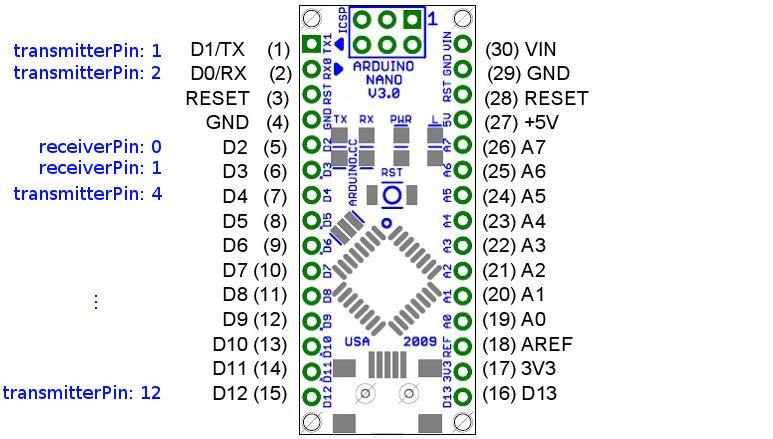
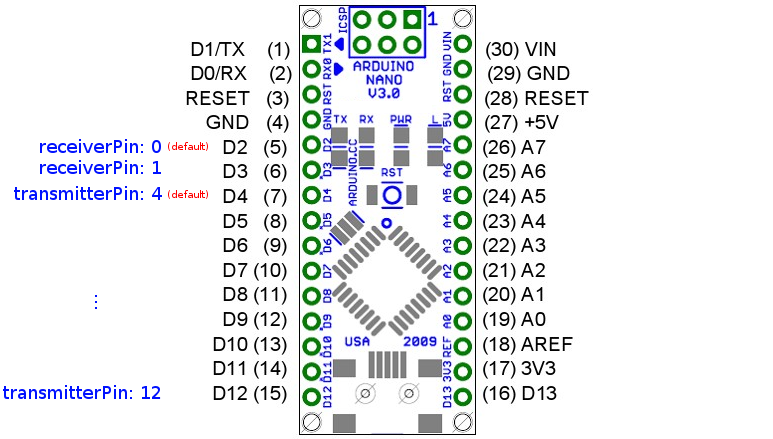
change config to driver with driver options, changed default transmitter pin to 4, updated pin png, use npm version of homeduino

Changed region(s): [[0.0, 0.0888, 0.2173, 0.1777], [0.2173, 0.4146, 0.2484, 0.4738], [0.2173, 0.3257, 0.2794, 0.3554]]

diff --git a/README.md b/README.md
@@ -16,10 +16,13 @@ You can load the plugin by editing your `config.json` to include:
 ```json
 {
   "plugin": "homeduino",
-  "serialDevice": "/dev/ttyUSB0",
-  "baudrate": 115200,
+  "driver": "serialport",
+  "driverOptions": {
+    "serialDevice": "/dev/ttyUSB0",
+    "baudrate": 115200
+  },
   "receiverPin": 0,
-  "transmitterPin": 1
+  "transmitterPin": 4
 }
 ```
 
